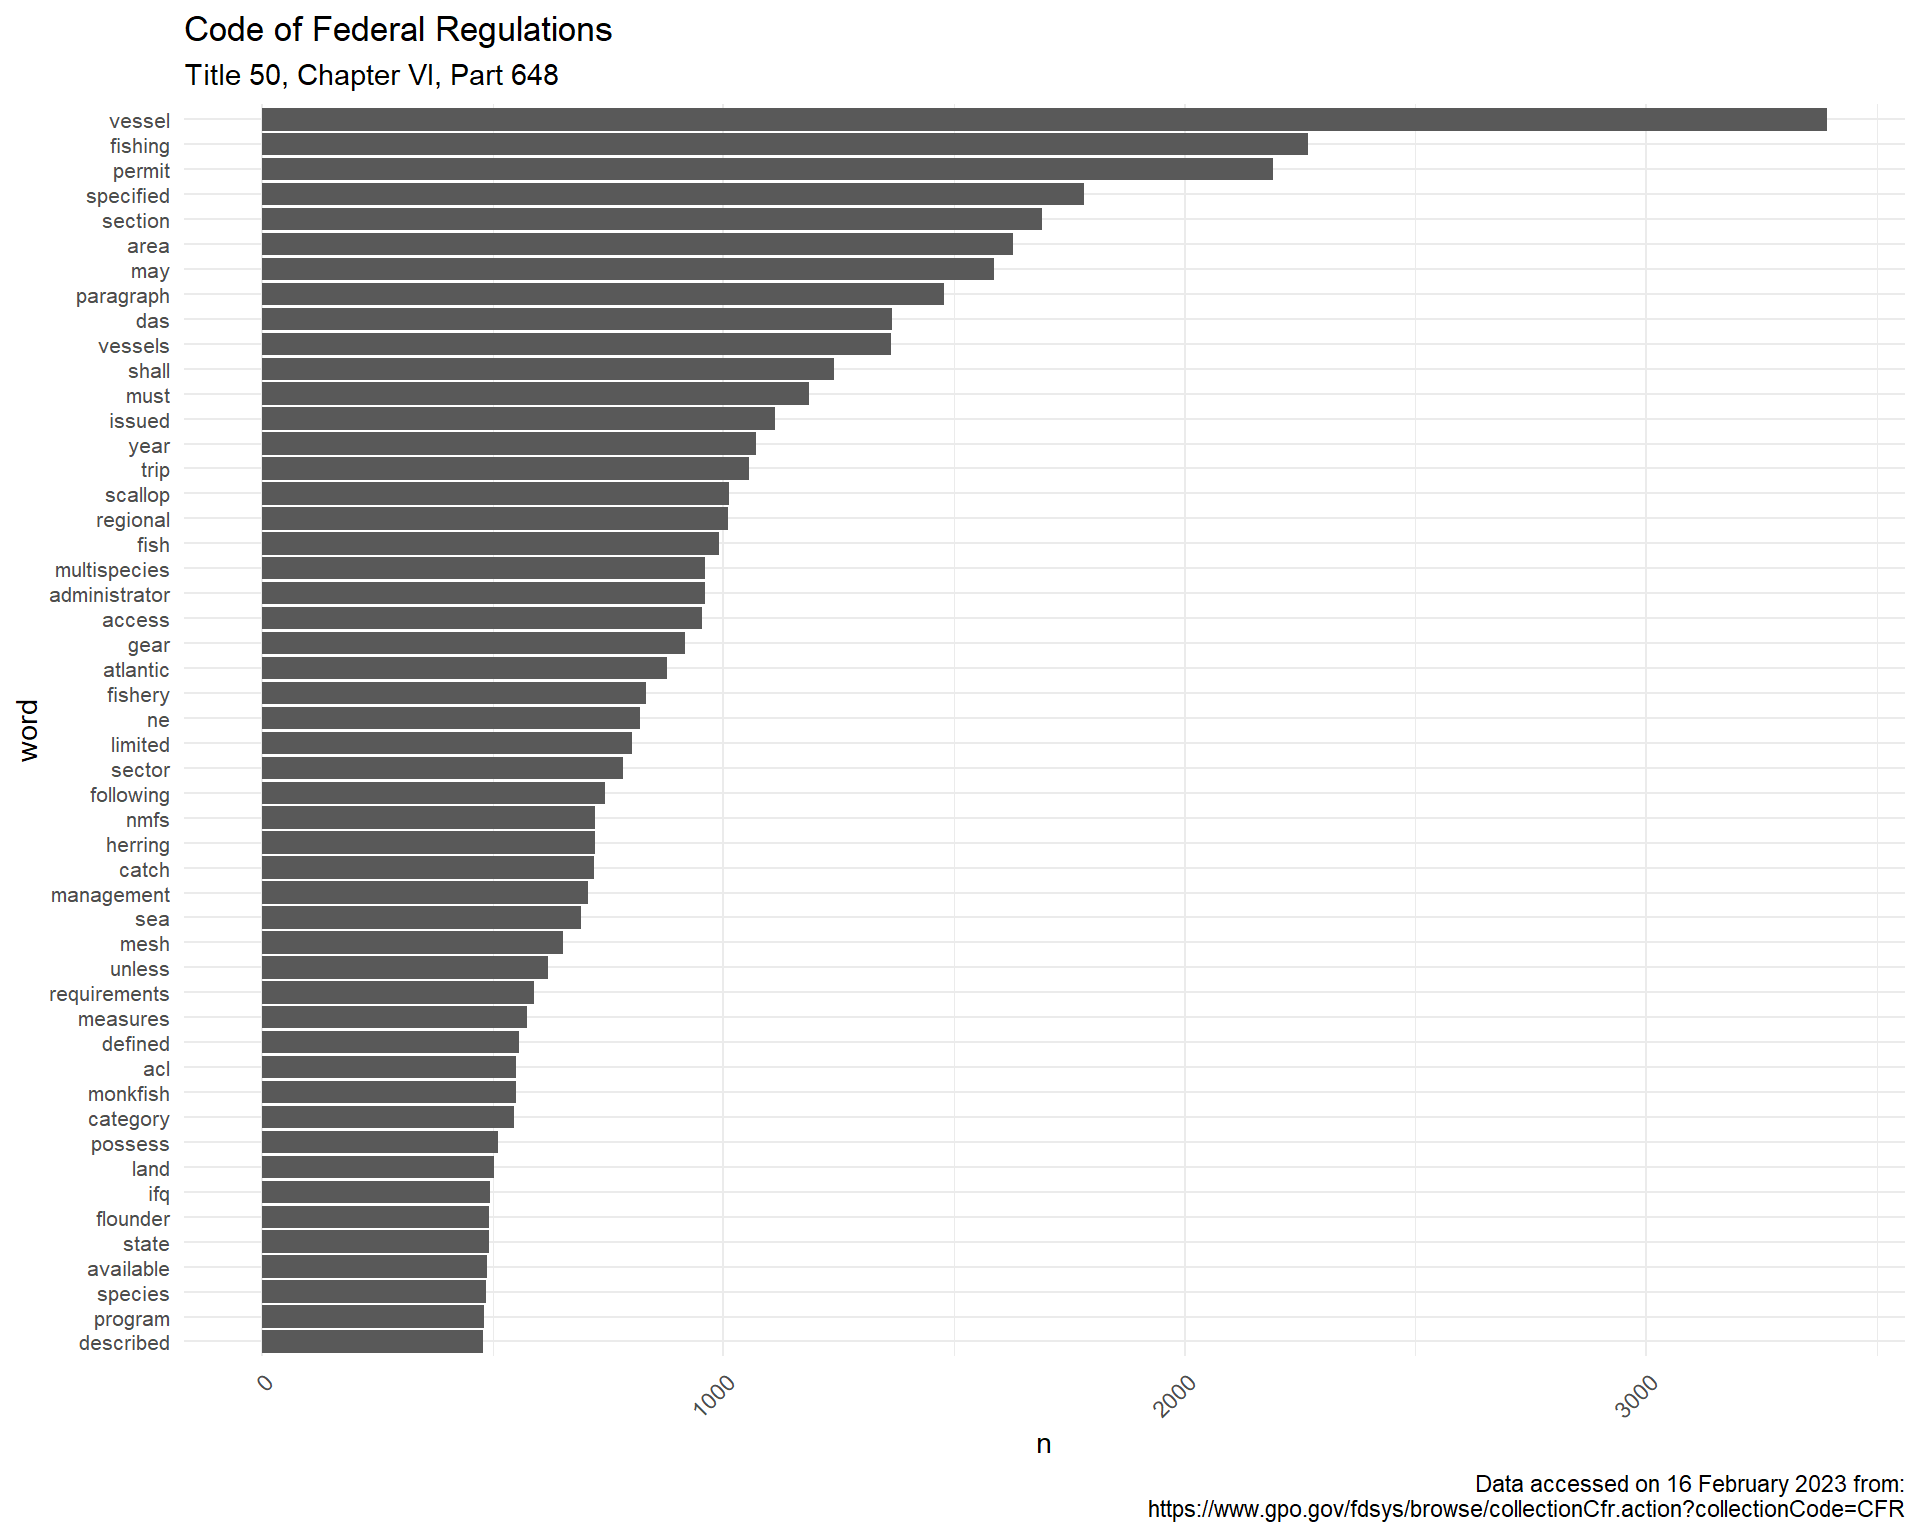
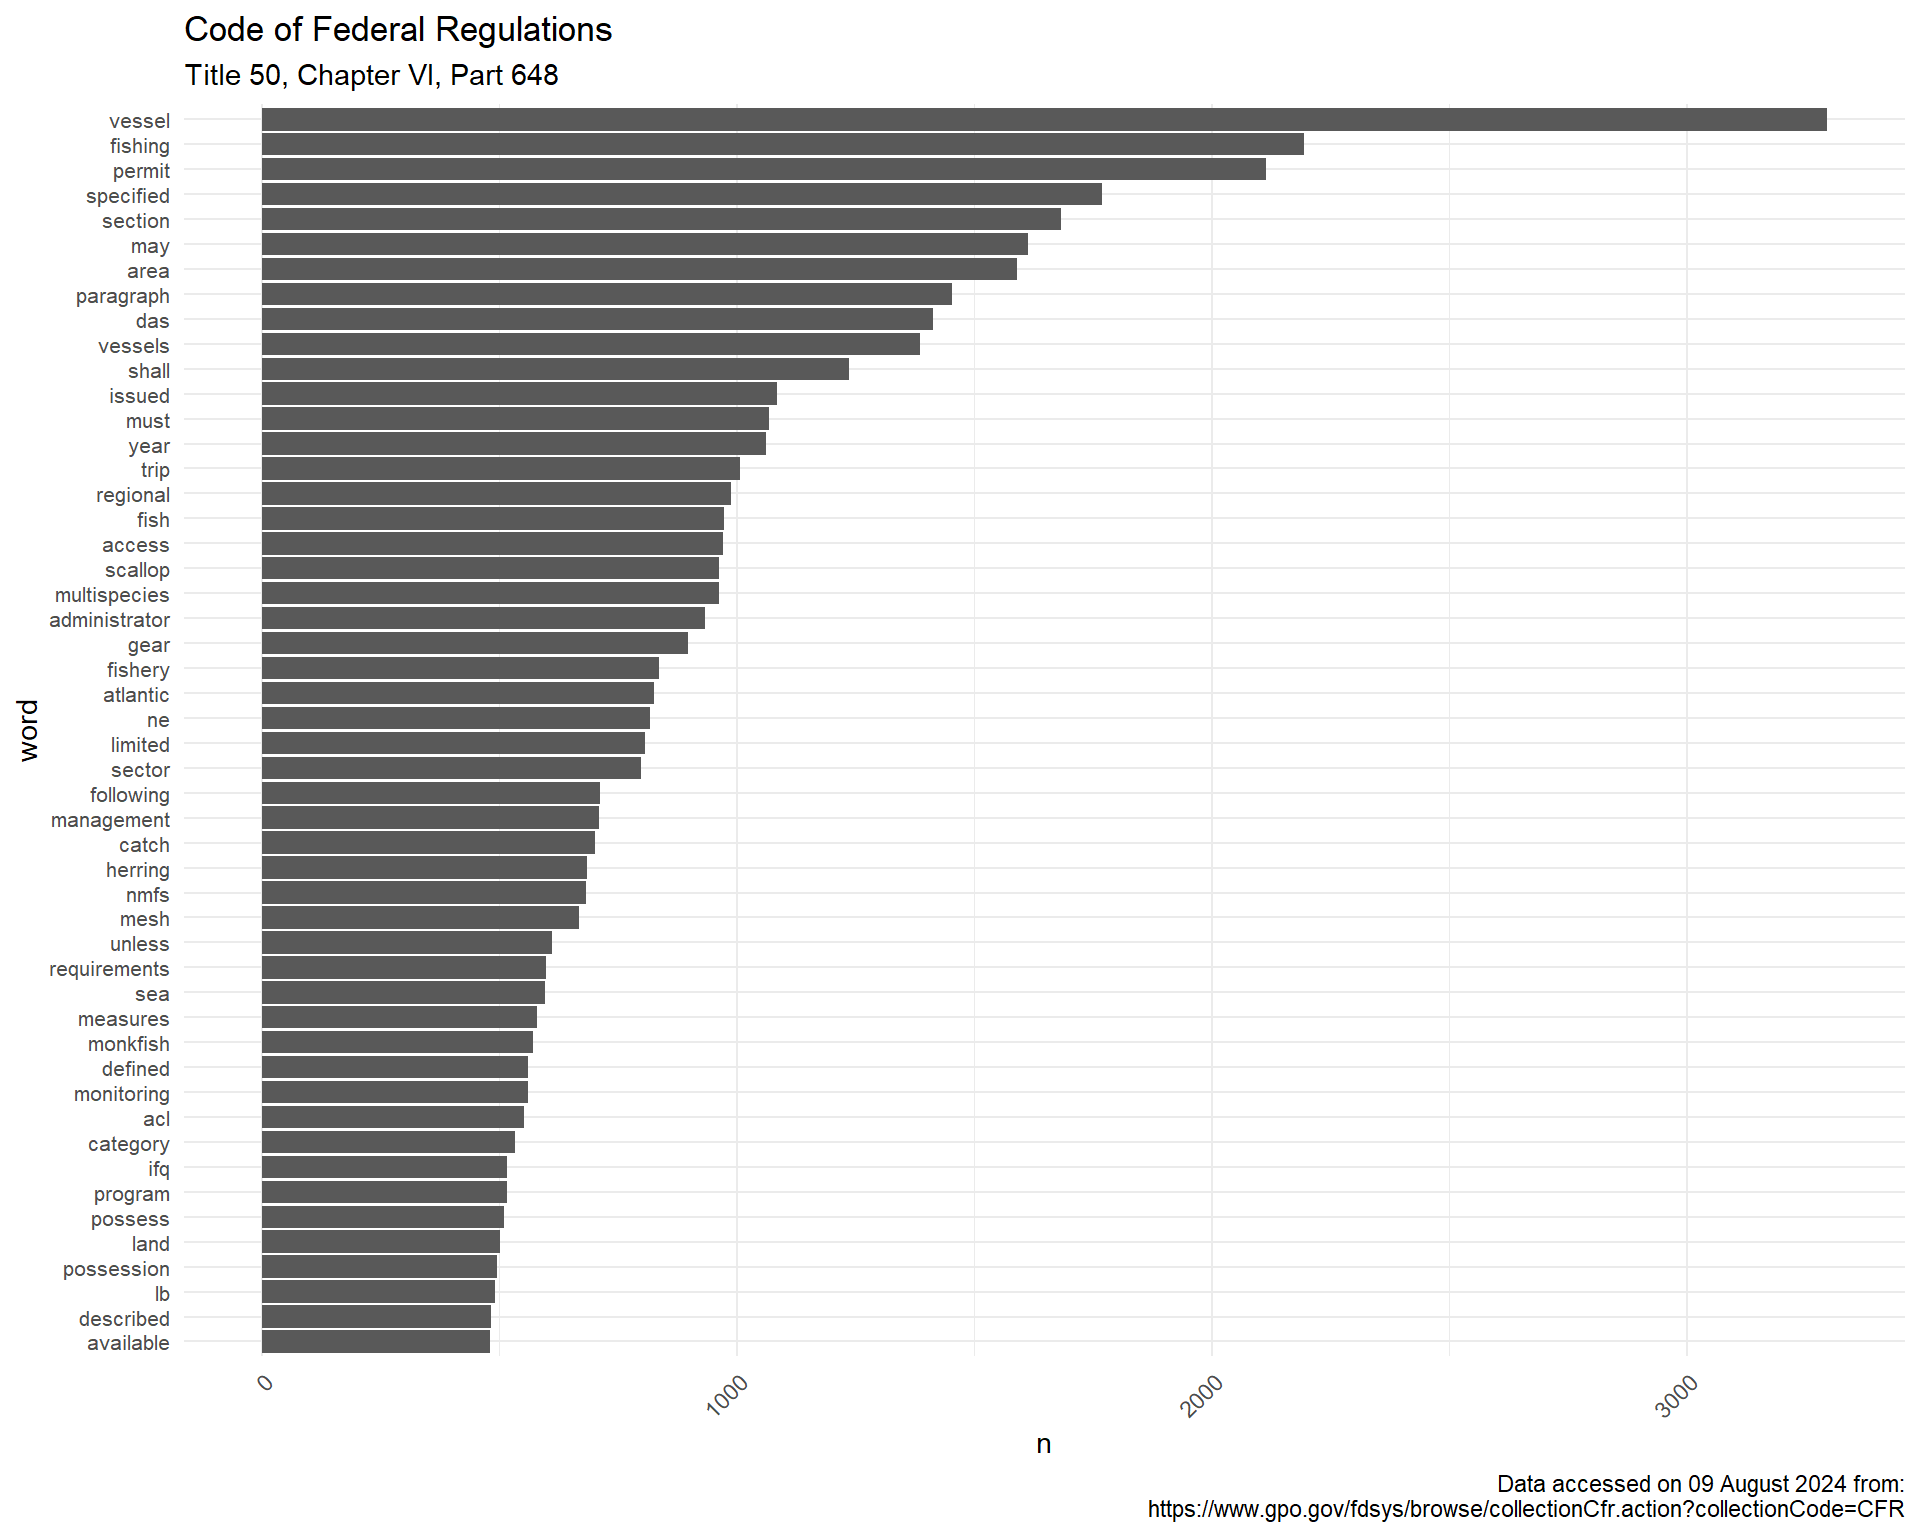
update for 2024
* Hopefully this will not require annual updates going forward

diff --git a/README.md b/README.md
@@ -50,7 +50,7 @@ library(tidyr)
 library(ggplot2)
 library(quanteda)
 
-regs <- cfr_text(year = 2021,
+regs <- cfr_text(year = 2023,
                  title_number = 50,
                  chapter = 6,
                  part = 648,
@@ -61,15 +61,14 @@ regs <- cfr_text(year = 2021,
 head(regs)
 ## # A tibble: 6 × 6
 ## # Groups:   year, title_number, chapter, part, subpart [6]
-##   subpart                                    year title…¹ chapter  part data    
-##   <chr>                                     <dbl>   <dbl> <chr>   <dbl> <list>  
-## 1 Subpart A—General Provisions               2021      50 VI        648 <tibble>
-## 2 Subpart B—Management Measures for the Ma…  2021      50 VI        648 <tibble>
-## 3 Subpart C—Management Measures for Atlant…  2021      50 VI        648 <tibble>
-## 4 Subpart D—Management Measures for the At…  2021      50 VI        648 <tibble>
-## 5 Subpart E—Management Measures for the At…  2021      50 VI        648 <tibble>
-## 6 Subpart F—Management Measures for the NE…  2021      50 VI        648 <tibble>
-## # … with abbreviated variable name ¹title_number
+##   subpart                               year title_number chapter  part data    
+##   <chr>                                <dbl>        <dbl> <chr>   <dbl> <list>  
+## 1 Subpart A—General Provisions          2023           50 VI        648 <tibble>
+## 2 Subpart B—Management Measures for t…  2023           50 VI        648 <tibble>
+## 3 Subpart C—Management Measures for A…  2023           50 VI        648 <tibble>
+## 4 Subpart D—Management Measures for t…  2023           50 VI        648 <tibble>
+## 5 Subpart E—Management Measures for t…  2023           50 VI        648 <tibble>
+## 6 Subpart F—Management Measures for t…  2023           50 VI        648 <tibble>
 ```
 
 Now, we can unnest the tibble and take a peek at the data to see what
@@ -115,16 +114,15 @@ clean_words <- regs %>%
 head(clean_words)
 ## # A tibble: 6 × 9
 ## # Groups:   year, title_number, chapter, part, subpart [1]
-##   subpart                year title…¹ chapter  part SECTI…² SECTI…³ values word 
-##   <chr>                 <dbl>   <dbl> <chr>   <dbl> <chr>   <chr>   <chr>  <chr>
-## 1 Subpart A—General Pr…  2021      50 VI        648 Purpos… § 648.1 648.1  part 
-## 2 Subpart A—General Pr…  2021      50 VI        648 Purpos… § 648.1 648.1  impl…
-## 3 Subpart A—General Pr…  2021      50 VI        648 Purpos… § 648.1 648.1  fish…
-## 4 Subpart A—General Pr…  2021      50 VI        648 Purpos… § 648.1 648.1  mana…
-## 5 Subpart A—General Pr…  2021      50 VI        648 Purpos… § 648.1 648.1  plans
-## 6 Subpart A—General Pr…  2021      50 VI        648 Purpos… § 648.1 648.1  fmps 
-## # … with abbreviated variable names ¹title_number, ²SECTION_NAME,
-## #   ³SECTION_NUMBER
+##   subpart     year title_number chapter  part SECTION_NAME SECTION_NUMBER values
+##   <chr>      <dbl>        <dbl> <chr>   <dbl> <chr>        <chr>          <chr> 
+## 1 Subpart A…  2023           50 VI        648 Purpose and… § 648.1        648.1 
+## 2 Subpart A…  2023           50 VI        648 Purpose and… § 648.1        648.1 
+## 3 Subpart A…  2023           50 VI        648 Purpose and… § 648.1        648.1 
+## 4 Subpart A…  2023           50 VI        648 Purpose and… § 648.1        648.1 
+## 5 Subpart A…  2023           50 VI        648 Purpose and… § 648.1        648.1 
+## 6 Subpart A…  2023           50 VI        648 Purpose and… § 648.1        648.1 
+## # ℹ 1 more variable: word <chr>
 ```
 
 Now we can look at binning and plotting the words
